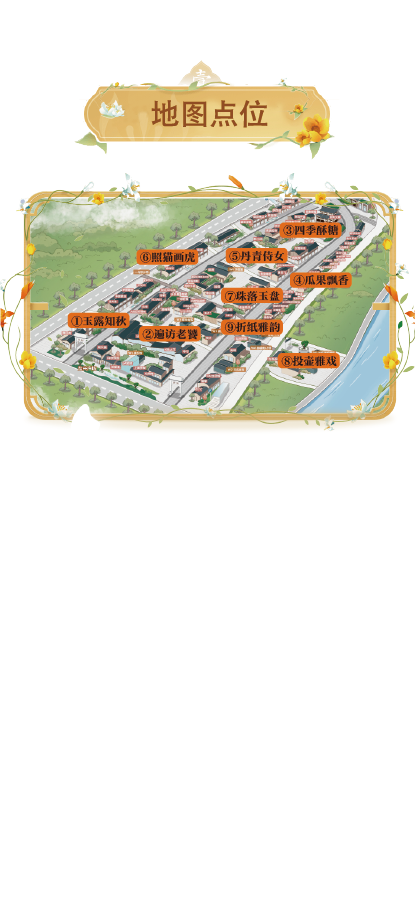
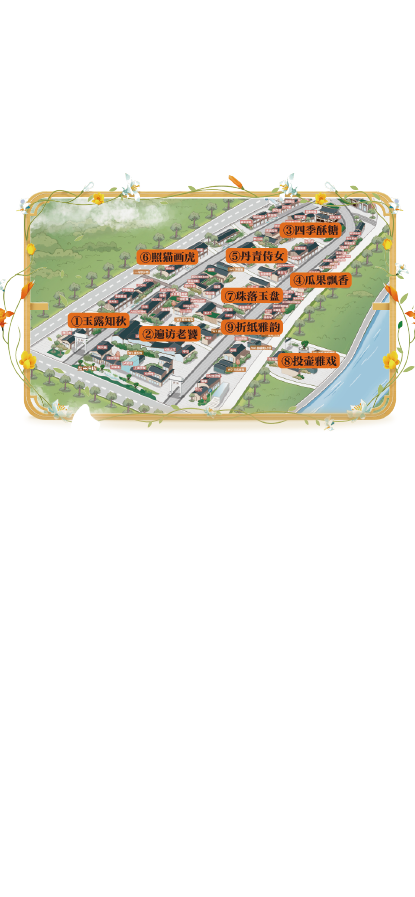
map page

Changed region(s): [[0.2024, 0.0624, 0.8096, 0.1873]]

diff --git a/src/views/MapView.vue b/src/views/MapView.vue
@@ -1,6 +1,9 @@
 <template>
-  <div class="about-bg">
+  <div class="map-bg">
     <div class="desc-bg"></div>
+    <div class="back-to-roles" @click="$router.back(-1)">
+      <img :src="mapBack" alt="mapBack"/>
+    </div>
     <div class="location-area">
       <div class="list-area">
         <div class="list-each">
@@ -58,6 +61,7 @@
 </template>
 
 <script>
+import mapBack from '../assets/images/back-to-roles.png'
 import map from '../assets/images/map-bg.png'
 import map00 from '../assets/images/map00.png'
 import map01 from '../assets/images/map01.png'
@@ -80,14 +84,15 @@ export default {
       map05,
       map06,
       map07,
-      map08
+      map08,
+      mapBack
     }
   }
 }
 </script>
 
-<style>
-.about-bg {
+<style scoped>
+.map-bg {
   z-index: 1;
   position: fixed;
   top: 0;
@@ -97,9 +102,6 @@ export default {
   width: 100%;
   height: 100%;
   overflow: hidden;
-  display: flex;
-  justify-content: center;
-  align-items: center;
   background-image: url(../assets/images/about-bg.png);
   background-size: cover;
   background-repeat: no-repeat;
@@ -118,8 +120,16 @@ export default {
   background-repeat: no-repeat;
   background-position: center center;
 }
+.back-to-roles {
+  z-index: 3;
+  position: relative;
+  margin-top: 1.4rem;
+  text-align: center;
+}
 .location-area {
-  margin-top: 5.4rem;
+  z-index: 2;
+  position: relative;
+  margin-top: 6rem;
 }
 .list-area {
   display: flex;

diff --git a/src/views/DetailView.vue b/src/views/DetailView.vue
@@ -22,9 +22,9 @@
         </template>
       </div>
       <div class="btns-area">
-        <router-link to="/select">
+        <a>
           <div @click="$router.back(-1)" class="intro-back"></div>
-        </router-link>
+        </a>
         <router-link to="/map">
           <div class="intro-map"></div>
         </router-link>

diff --git a/src/views/AboutView.vue b/src/views/AboutView.vue
@@ -23,7 +23,7 @@ export default {
 }
 </script>
 
-<style>
+<style scoped>
 .about-bg {
   z-index: 1;
   position: fixed;
